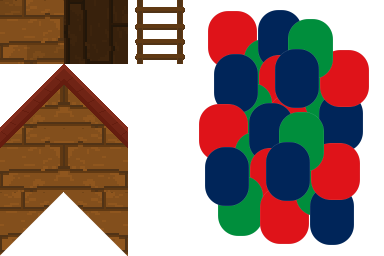
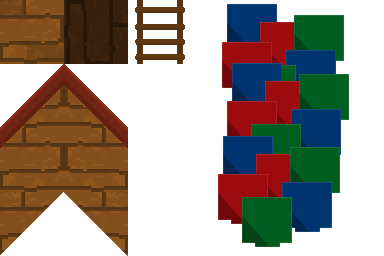
Bullets and fixed Balloons

diff --git a/_games/the-flying-house/game.js b/_games/the-flying-house/game.js
@@ -234,15 +234,26 @@ function Balloon(x, y, tiltedX){
     this.screenHalfWidth = WIDTH/2;
     this.screenHalfHeight = HEIGHT/2;
 
+    this.ballooncameraX = 0;
+    this.ballooncameraY = 0;
+
     this.draw = function(){
-        ctx.beginPath();
         ctx.strokeStyle = 'white';
         ctx.lineWidth = 2;
-        ctx.moveTo(this.cameraX + cameraGlobalX, this.cameraY + cameraGlobalY);
-        ctx.lineTo(this.cameraX + cameraGlobalX + this.tiltedX, this.cameraY - this.yFloat + cameraGlobalY/2);
-        ctx.stroke();
+        for(var i = 0 ; i < 3; i++){
+            ctx.beginPath();
+            ctx.moveTo(this.cameraX + cameraGlobalX, this.cameraY + cameraGlobalY);
+            ctx.lineTo(this.cameraX + cameraGlobalX - 30*cameraZoom + i*30*cameraZoom, this.cameraY + cameraGlobalY/2 - this.yFloat*cameraZoom);
+            ctx.stroke();
+        }
 
-        ctx.drawImage(tileMap, 192, 0, 192, 256, this.cameraX - tileSize*3, this.cameraY - tileSize * 8 - this.yFloat/2, tileSize*6, tileSize*8);
+        if(this.x > WIDTH/2 - tileSize && this.x < WIDTH/2 + tileSize){
+            for(var i = 0; i < 3; i++){
+                ctx.drawImage(tileMap, 192, 0, 192, 256, this.ballooncameraX - tileSize*cameraZoom + tileSize*cameraZoom*i, this.ballooncameraY, tileSize*7*cameraZoom, tileSize*10*cameraZoom);
+            }
+        }else{
+            ctx.drawImage(tileMap, 192, 0, 192, 256, this.ballooncameraX, this.ballooncameraY, tileSize*6*cameraZoom, tileSize*8*cameraZoom);
+        }
     };
     this.update = function(){
         if(gameTicks % 10 === 0){
@@ -257,6 +268,9 @@ function Balloon(x, y, tiltedX){
 
         this.cameraX = Math.round((this.x - this.screenHalfWidth) * cameraZoom + this.screenHalfWidth);
         this.cameraY = Math.round((this.y - this.screenHalfHeight) * cameraZoom + this.screenHalfHeight);
+
+        this.ballooncameraX = Math.round((this.x - this.screenHalfWidth - tileSize*3) * cameraZoom + this.screenHalfWidth);
+        this.ballooncameraY = Math.round((this.y - this.screenHalfHeight - this.yFloat*2) * cameraZoom + this.screenHalfHeight);
     };
 }
 
@@ -291,11 +305,14 @@ function Player(id){
 
     this.facing = 1;
 
+    this.knockBackXVel = 0;
+
     this.update = function(){
 
         if(this.actualXVel === 0){
             this.actualXVel = this.xVel;
         }
+        this.actualXVel += this.knockBackXVel;
         if(this.actualYVel === 0){
             this.actualYVel = this.yVel;
         }
@@ -305,7 +322,7 @@ function Player(id){
         this.tilePosYTop = Math.round((this.y - this.height - yOffset) / tileSize);
         this.tilePosYBottom = Math.round((this.y - this.actualYVel - 2 - yOffset) / tileSize);
 
-        if((this.x + this.width*2 > xOffset) && (this.x - this.width*2 < WIDTH - xOffset) && (this.y > yOffset) && (this.y < HEIGHT - yOffset)){
+        if((this.x + this.width*2 > xOffset) && (this.x - this.width*2 < WIDTH - xOffset) && (this.y > yOffset) && (this.y + this.height < HEIGHT - yOffset)){
             if(this.tilePosYTop > 0 && this.tilePosYBottom < map.length - 1){
                 for(var i = 0; i < collidableBlocks.length; i++) {
                     if (map[this.tilePosYTop - 1][this.tilePosXLeft] === collidableBlocks[i] || map[this.tilePosYTop - 1][this.tilePosXRight] === collidableBlocks[i]) {
@@ -323,6 +340,8 @@ function Player(id){
 
                     }
                 }
+            }else{
+                this.actualYVel += this.gravity;
             }
 
             if(this.tilePosYBottom < map.length - 1){
@@ -353,9 +372,11 @@ function Player(id){
                         }
                     }
                 }
+            }else{
+                this.actualYVel += this.gravity;
             }
 
-            if(this.tilePosXLeft > 0 && this.tilePosYBottom < map.length - 1){
+            if(this.tilePosXLeft > 0 && this.tilePosYBottom < map.length){
                 for(var i = 0; i < collidableBlocks.length; i++) {
                     if (map[this.tilePosYBottom][this.tilePosXLeft - 1] === collidableBlocks[i] || map[this.tilePosYTop][this.tilePosXLeft - 1] === collidableBlocks[i]) {
                         if (this.actualXVel < 0) {
@@ -372,7 +393,7 @@ function Player(id){
                 }
             }
 
-            if(this.tilePosXRight < map[0].length - 1 && this.tilePosYBottom < map.length - 1){
+            if(this.tilePosXRight < map[0].length - 1 && this.tilePosYBottom < map.length){
                 for(var i = 0; i < collidableBlocks.length; i++) {
                     if (map[this.tilePosYBottom][this.tilePosXRight + 1] === collidableBlocks[i] || map[this.tilePosYTop][this.tilePosXRight + 1] === collidableBlocks[i]) {
                         if (this.actualXVel > 0) {
@@ -398,6 +419,14 @@ function Player(id){
             this.facing = 1;
         }else if(this.actualXVel < -moveSpeed + 1){
             this.facing = -1;
+        }
+
+        if(this.knockBackXVel > 2){
+            this.knockBackXVel--;
+        }else if(this.knockBackXVel < -2){
+            this.knockBackXVel++;
+        }else{
+            this.knockBackXVel = 0;
         }
 
         this.x += this.actualXVel;
@@ -459,17 +488,9 @@ for(var i = 0; i < map[0].length; i++){
 players.push(new Player(1));
 players.push(new Player(2));
 
-for(var i = 0; i < 7; i++){
-    balloons.push(new Balloon(WIDTH/2, yOffset, -60 + i*20));
-}
-
-for(var i = 0; i < 5; i++){
-    balloons.push(new Balloon(xOffset + tileSize, yOffset + tileSize*6, -60 + i*30));
-}
-
-for(var i = 0; i < 5; i++){
-    balloons.push(new Balloon(WIDTH - xOffset - tileSize, yOffset + tileSize*6, -60 + i*30));
-}
+balloons.push(new Balloon(WIDTH/2, yOffset, 0));
+balloons.push(new Balloon(xOffset + tileSize, yOffset + tileSize*6, 0));
+balloons.push(new Balloon(WIDTH - xOffset - tileSize, yOffset + tileSize*6, 0));
 
 var gameTicks = 0;
 
@@ -497,10 +518,21 @@ function game(){
         bullets[i].update();
         bullets[i].draw();
 
+        var destroy = false;
+
+        for(var j = 0; j < players.length; j++){
+            if(bullets[i].x < players[j].x + players[j].width && bullets[i].x + bullets[i].velX > players[j].x){
+                if(bullets[i].y > players[j].y - players[j].height/2 && bullets[i].y < players[j].y + players[j].height/2){
+                    players[j].knockBackXVel += bullets[i].velX;
+                    destroy = true;
+                }
+            }
+        }
+
         if(bullets.length > 0 && i !== bullets.length) {
             for(var j = 0; j < collidableBlocks.length; j++){
                 if (map[Math.round((bullets[i].y - tileSize / 2 - yOffset) / tileSize)][Math.round((bullets[i].x - xOffset) / tileSize)] === collidableBlocks[j]) {
-                    bullets.splice(i, 1);
+                    destroy = true;
                     break;
                 }
             }
@@ -510,8 +542,12 @@ function game(){
 
         if(bullets.length > 0 && i !== bullets.length){
             if(bullets[i].x < 10 || bullets[i].x > WIDTH + 10){
-                bullets.splice(i, 1);
+                destroy = true;
             }
+        }
+
+        if(destroy === true){
+            bullets.splice(i, 1);
         }
     }
 
